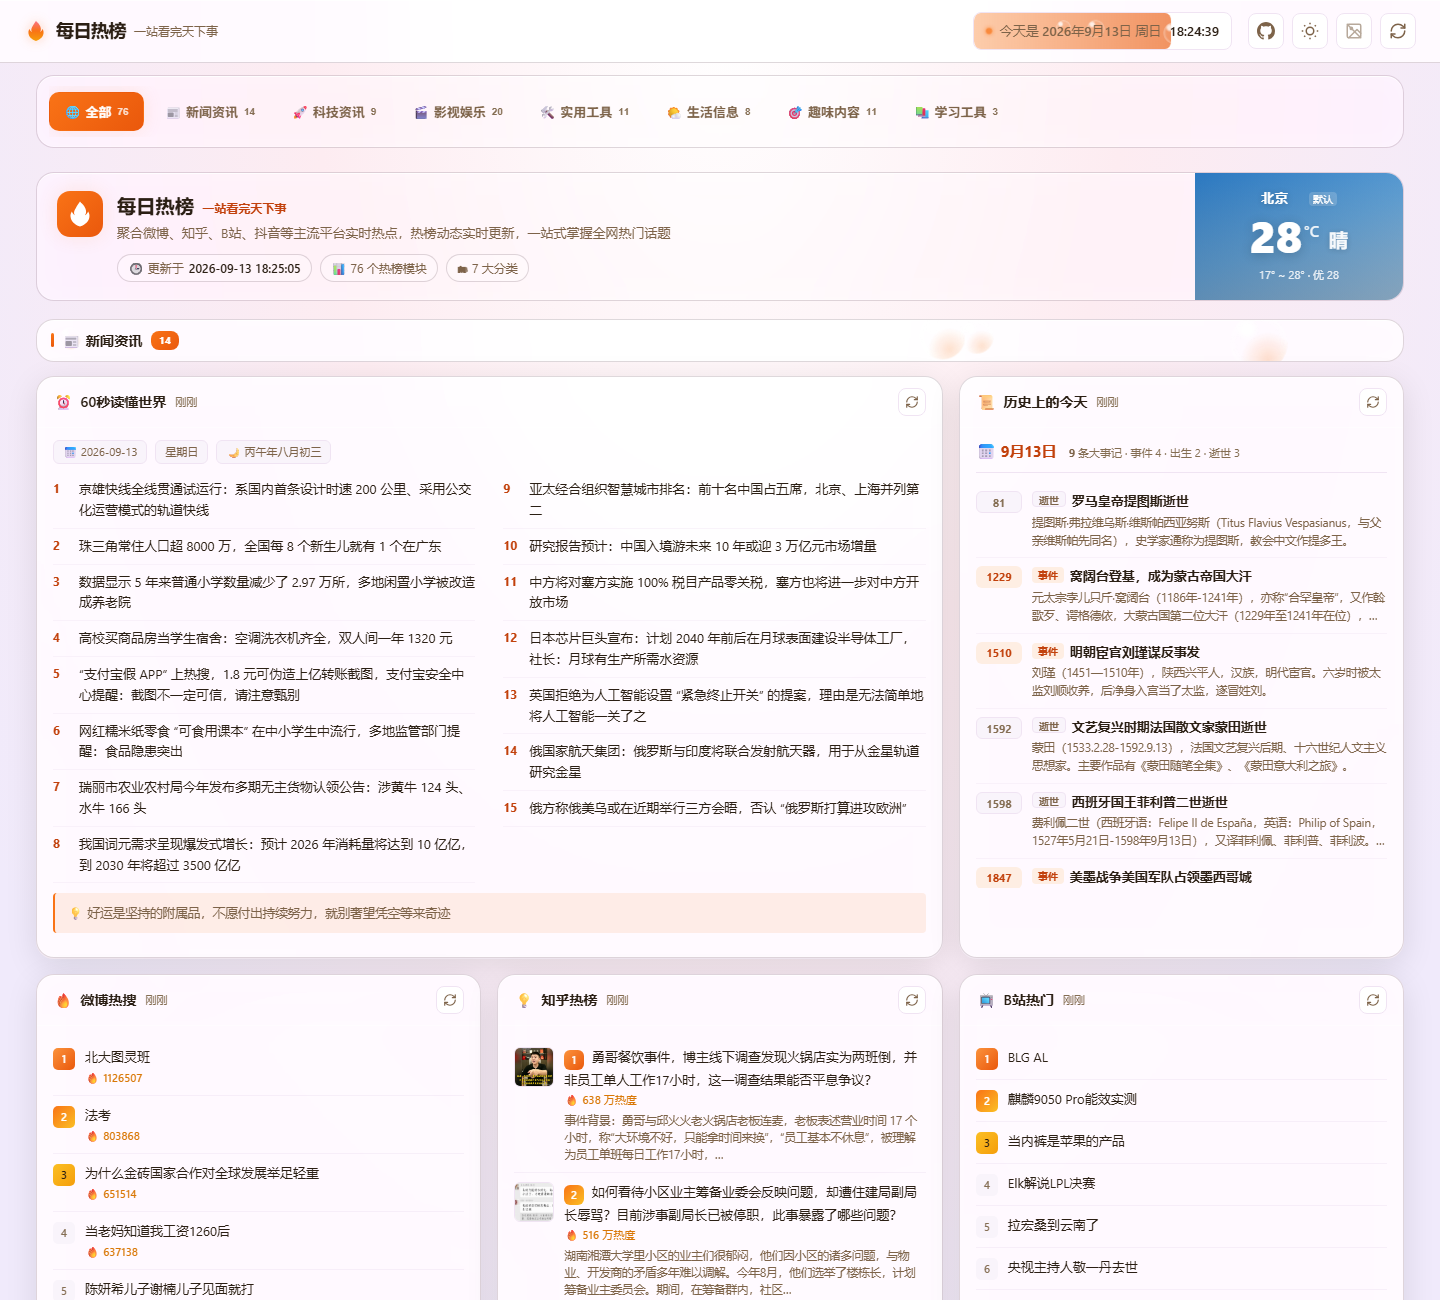
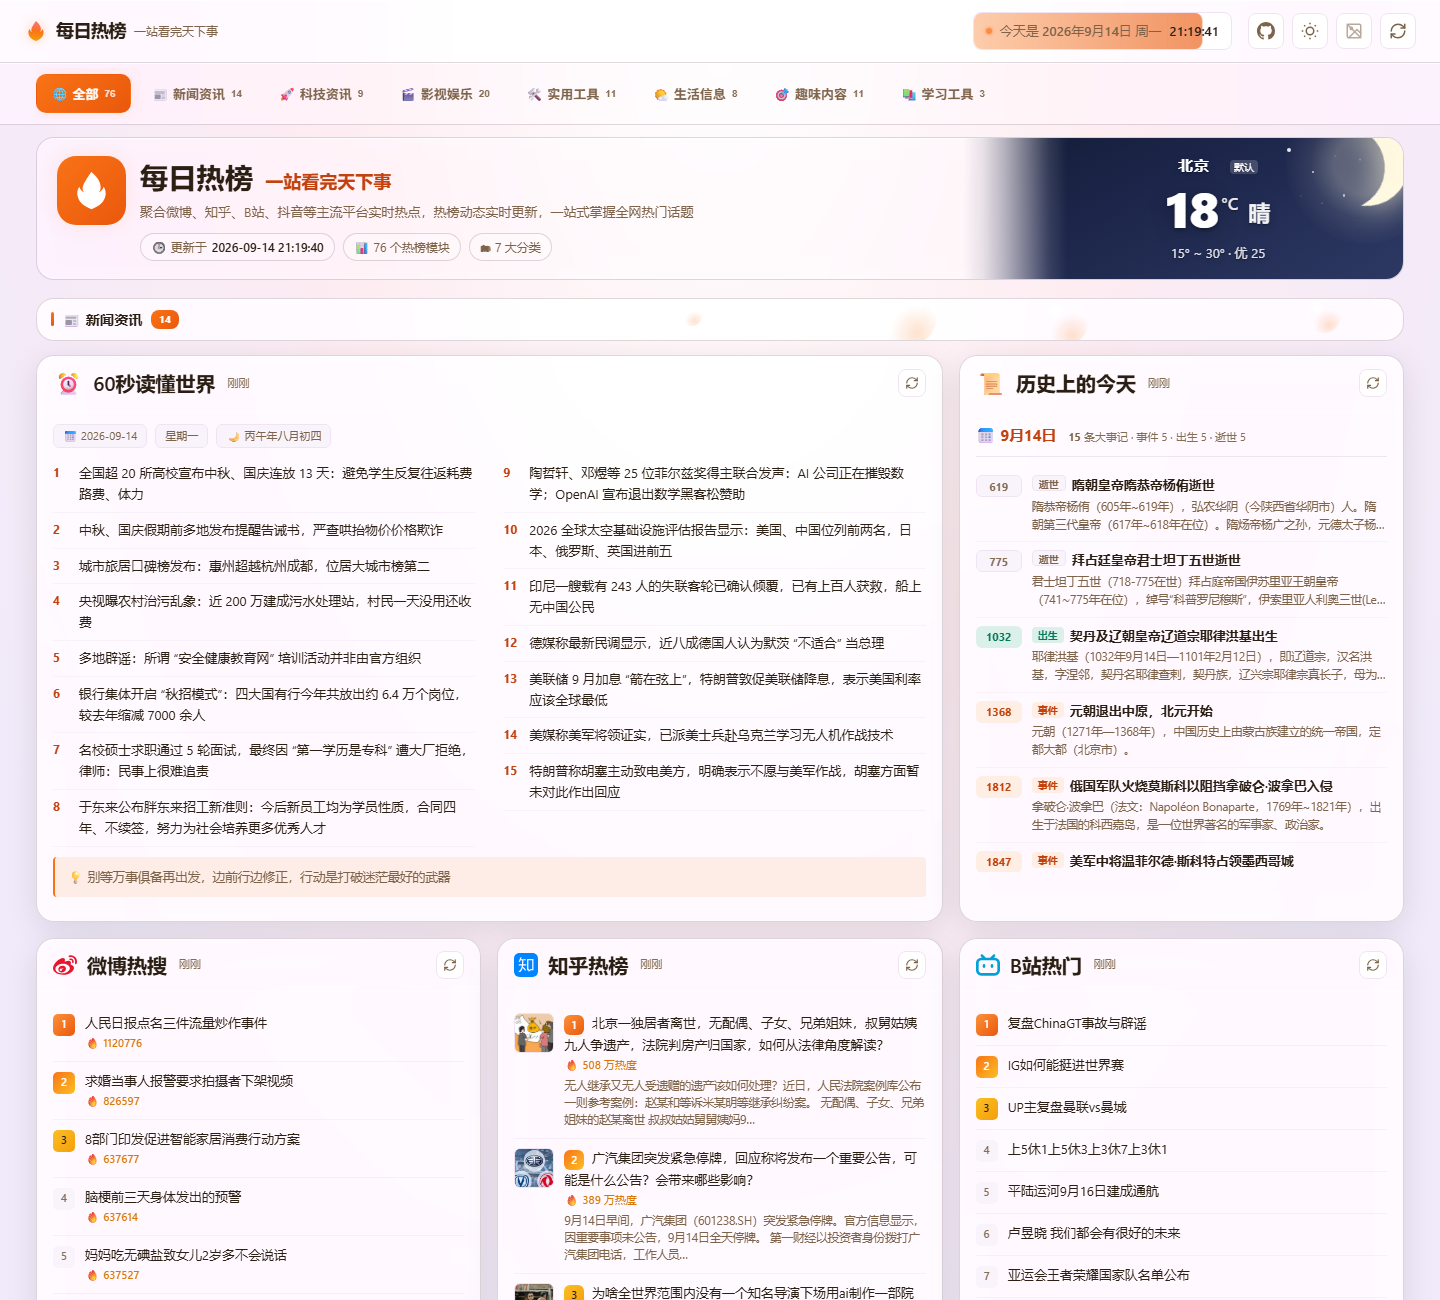
docs: 更新界面预览图为最新版，并同步版本号至 1.11.0
- daily-hot-preview.png 换为最新界面截图(1440x1300，含天气装饰、通栏分类导航、加强后的天气文字阴影)
- README 版本徽章由 1.9.0 同步到 1.11.0(此前落后两个版本)
- 天气特性补充装饰说明：天空随昼夜与天气切换，晴出太阳、夜出月亮与星点、雨雪雷电雾各有其形
- 项目结构补全 public/apple-touch-icon.png 与 public/logos/
- package.json 版本升到 1.11.0

diff --git a/readme.md b/readme.md
@@ -2,7 +2,7 @@
 
 > 一站看完天下事 · 基于 [60s API](https://github.com/vikiboss/60s) 构建的一站式热榜聚合面板
 
-[![Version](https://img.shields.io/badge/version-1.9.0-blue) ](./package.json)
+[![Version](https://img.shields.io/badge/version-1.11.0-blue) ](./package.json)
 [![Cloudflare Workers](https://img.shields.io/badge/Cloudflare%20Workers-F38020?logo=cloudflare&logoColor=white) ](https://workers.cloudflare.com/)
 [![EdgeOne Pages](https://img.shields.io/badge/EdgeOne%20Pages-0052FF?style=flat) ](https://edgeone.ai/pages)
 [![Docker](https://img.shields.io/badge/Docker-2496ED?logo=docker&logoColor=white) ](https://docker.com/)
@@ -34,7 +34,7 @@
 
 - **🌙 日间 / 夜间模式** — 自动跟随系统明暗，顶栏可手动切换并记忆偏好
 - **⏱ 实时时钟** — 顶栏秒级时钟，橙色进度随一天推移铺满整条胶囊，进度区间内有流动的玻璃泡泡
-- **🌤 本地天气** — 页首 Hero 卡右侧按访客 IP 自动定位城市、展示今日天气，点一下即可重新定位或手动改城市
+- **🌤 本地天气** — 页首 Hero 卡右侧按访客 IP 自动定位城市、展示今日天气，点一下即可重新定位或手动改城市；天空底色随天气与昼夜实时切换，晴出太阳、夜出月亮与星点、雨天落雨丝、雪天飘六角雪花、雷阵雨伴闪电、雾霾起雾带
 - **🖼 必应壁纸背景** — 页面背景每日自动获取必应壁纸，桌面/移动端按屏幕方向自适应清晰度，当日缓存不重复请求；默认关闭，顶栏一键开启
 - **📥 壁纸一键下载** — 必应壁纸卡片内置 1080P / 4K 双尺寸下载按钮
 - **📱 移动端适配** — 触屏友好控件，响应式布局，顶栏始终两行不溢出
@@ -212,7 +212,9 @@ curl "https://your-domain/endpoints"
 │   ├── app.js              # 前端逻辑（EPS 注册 + 渲染器）
 │   ├── style.css           # 样式
 │   ├── manifest.json       # PWA 配置
-│   └── sw.js               # Service Worker
+│   ├── sw.js               # Service Worker
+│   ├── apple-touch-icon.png # iOS 主屏图标
+│   └── logos/              # 数据源品牌图标（SVG）
 ├── src/
 │   ├── app.ts              # Oak 应用入口 + 中间件注册
 │   ├── config.ts           # 环境变量配置
